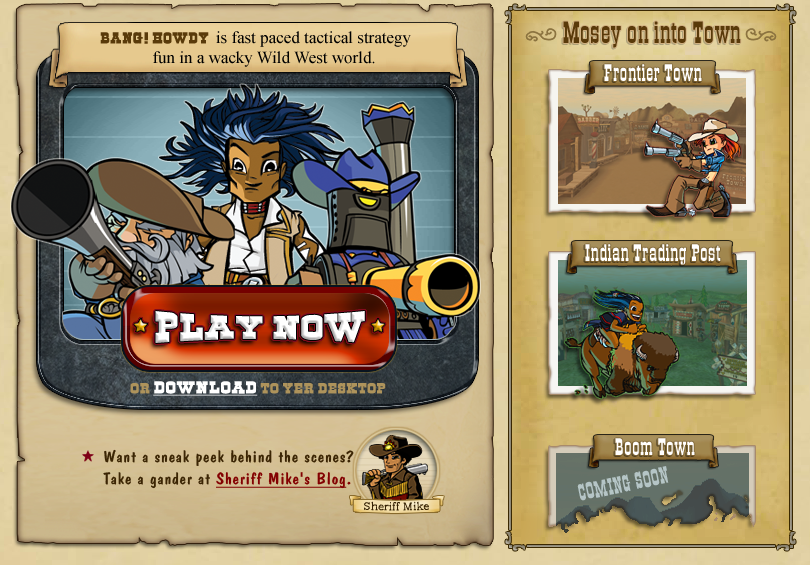
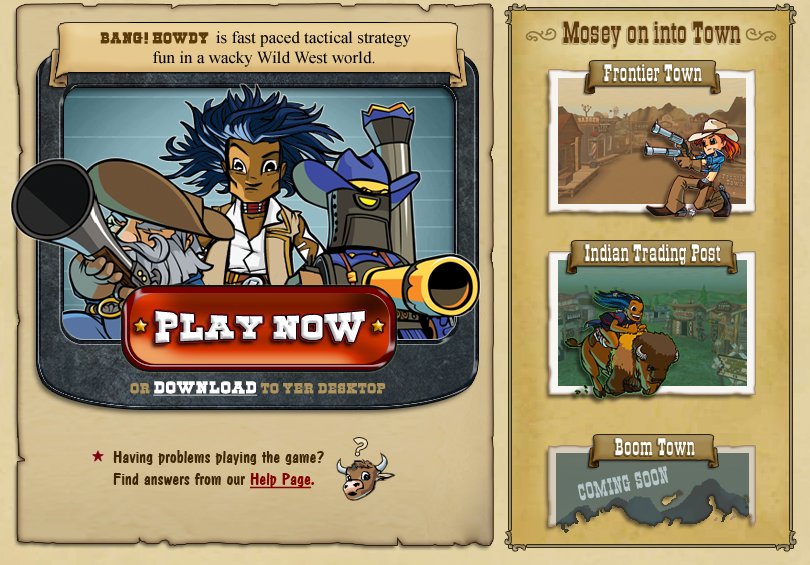
Update the bang webpage and replace the links to the blog with links to the support page.  Since the blog is never updated, and we have no links to the support page anywhere else on the site.

Changed region(s): [[0.0926, 0.7522, 0.5556, 0.9327]]

diff --git a/pages/style.css b/pages/style.css
@@ -93,8 +93,8 @@ li {
     overflow: hidden;
   }
 
-#linkbang a i { 
-    visibility: hidden; 
+#linkbang a i {
+    visibility: hidden;
 }
 
 #linkplay a {
@@ -109,12 +109,12 @@ li {
     overflow: hidden;
   }
 
-#linkplay a i { 
-    visibility: hidden; 
+#linkplay a i {
+    visibility: hidden;
 }
 
-a#btnplay:hover { 
-    background-image: url("/images/header/play.png"); 
+a#btnplay:hover {
+    background-image: url("/images/header/play.png");
     border: none;
 }
 
@@ -130,12 +130,12 @@ a#btnplay:hover {
     overflow: hidden;
   }
 
-#linkscreen a i { 
-    visibility: hidden; 
+#linkscreen a i {
+    visibility: hidden;
 }
 
-a#btnscreen:hover { 
-    background-image: url("/images/header/screen.png"); 
+a#btnscreen:hover {
+    background-image: url("/images/header/screen.png");
     border: none;
 }
 
@@ -151,12 +151,12 @@ a#btnscreen:hover {
     overflow: hidden;
   }
 
-#linkforum a i { 
-    visibility: hidden; 
+#linkforum a i {
+    visibility: hidden;
 }
 
-a#btnforum:hover { 
-    background-image: url("/images/header/forum.png"); 
+a#btnforum:hover {
+    background-image: url("/images/header/forum.png");
     border: none;
 }
 
@@ -172,16 +172,16 @@ a#btnforum:hover {
     overflow: hidden;
   }
 
-#linkaccount a i { 
-    visibility: hidden; 
+#linkaccount a i {
+    visibility: hidden;
 }
 
-a#btnaccount:hover { 
-    background-image: url("/images/header/account.png"); 
+a#btnaccount:hover {
+    background-image: url("/images/header/account.png");
     border: none;
 }
 
-#linknews a {
+#linksupport a {
     position: absolute;
     width: 39px;
     height: 16px;
@@ -193,12 +193,12 @@ a#btnaccount:hover {
     overflow: hidden;
   }
 
-#linknews a i { 
-    visibility: hidden; 
+#linksupport a i {
+    visibility: hidden;
 }
 
-a#btnnews:hover { 
-    background-image: url("/images/header/news.png"); 
+a#btnsupport:hover {
+    background-image: url("/images/header/help.png");
     border: none;
 }
 
@@ -214,8 +214,8 @@ a#btnnews:hover {
     overflow: hidden;
   }
 
-#linkthreerings a i { 
-    visibility: hidden; 
+#linkthreerings a i {
+    visibility: hidden;
 }
 
 /* -------------------------------------------------
@@ -258,8 +258,8 @@ a#btnnews:hover {
     overflow: hidden;
   }
 
-#linklogo a i { 
-    visibility: hidden; 
+#linklogo a i {
+    visibility: hidden;
 }
 
 #Footer {
@@ -273,7 +273,7 @@ a#btnnews:hover {
 
 
 /* -------------------------------------------------
-   For register/register.wm 
+   For register/register.wm
 ------------------------------------------------- */
 h3 {
    margin-bottom: 0px

diff --git a/pages/css/index.css b/pages/css/index.css
@@ -26,15 +26,15 @@
   	padding: 0px;
   	text-decoration: none;
   	overflow: hidden;
-  	
+
   }
 
-#linkplayB a i { 
-	visibility: hidden; 
+#linkplayB a i {
+	visibility: hidden;
 }
 
-a#btnplayB:hover { 
-	background-image: url("/images/index/playnow.png"); 
+a#btnplayB:hover {
+	background-image: url("/images/index/playnow.png");
 	border: none;
 }
 
@@ -50,34 +50,34 @@ a#btnplayB:hover {
   	overflow: hidden;
   }
 
-#linkdl a i { 
-	visibility: hidden; 
+#linkdl a i {
+	visibility: hidden;
 }
 
-a#btndl:hover { 
-	background-image: url("/images/index/download.png"); 
+a#btndl:hover {
+	background-image: url("/images/index/download.png");
 	border: none;
 }
 
-#linkblog a {
+#linkhelp a {
   	position: absolute;
- 	width: 131px;
+ 	width: 69px;
   	height: 24px;
-  	top: 469px;
-  	left: 214px;
+  	top: 468px;
+  	left: 247px;
   	margin: 0px;
   	padding: 0px;
-  	text-decoration: none; 
+  	text-decoration: none;
   	overflow: hidden;
-  	
+
   }
 
-#linkblog a i { 
-	visibility: hidden; 
+#linkhelp a i {
+	visibility: hidden;
 }
 
-a#btnblog:hover { 
-	background-image: url("/images/index/blog.png"); 
+a#btnhelp:hover {
+	background-image: url("/images/index/help.png");
 	border: none;
 }
 
@@ -93,12 +93,12 @@ a#btnblog:hover {
   	overflow: hidden;
   }
 
-#linkfrontier a i { 
-	visibility: hidden; 
+#linkfrontier a i {
+	visibility: hidden;
 }
 
-a#btnfrontier:hover { 
-	background-image: url("/images/index/frontier.png"); 
+a#btnfrontier:hover {
+	background-image: url("/images/index/frontier.png");
 	border: none;
 }
 
@@ -114,11 +114,11 @@ a#btnfrontier:hover {
   	overflow: hidden;
   }
 
-#linkitp a i { 
-	visibility: hidden; 
+#linkitp a i {
+	visibility: hidden;
 }
 
-a#btnitp:hover { 
-	background-image: url("/images/index/itp.png"); 
+a#btnitp:hover {
+	background-image: url("/images/index/itp.png");
 	border: none;
 }

diff --git a/pages/incl/header_incl.html b/pages/incl/header_incl.html
@@ -11,22 +11,22 @@
          <div id="linkscreen"><a href="/screenshots/" id="btnscreen">
             <i>Screenshots</i></a>
          </div>
-         <div id="linkforum"><a href="http://forums.banghowdy.com/townhall/" 
+         <div id="linkforum"><a href="http://forums.banghowdy.com/townhall/"
              id="btnforum">
             <i>Forums</i></a>
          </div>
          <div id="linkaccount"><a href="/register/" id="btnaccount">
             <i>Download</i></a>
          </div>
-         <div id="linknews"><a href="/news/" id="btnnews">
-            <i>Blog</i></a>
+         <div id="linksupport"><a href="/support/" id="btnsupport">
+            <i>Support</i></a>
          </div>
-         <div id="linkthreerings"><a href="http://www.threerings.net" 
+         <div id="linkthreerings"><a href="http://www.threerings.net"
              id="btnthreerings" onclick="this.target='_blank';">
             <i>Three Rings</i></a>
          </div>
     </div>
- 
+
     <div id="Content">
- 
+
 

diff --git a/pages/index.html b/pages/index.html
@@ -12,8 +12,8 @@
     <div id="linkdl"><a href="/download.html" id="btndl">
             <i>Download</i></a>
     </div>
-    <div id="linkblog"><a href="/news/" id="btnblog">
-            <i>Sheriff Mikes Blog</i></a>
+    <div id="linkhelp"><a href="/support/" id="btnhelp">
+            <i>Help Page</i></a>
     </div>
     <div id="linkfrontier"><a href="/town/frontier.html" id="btnfrontier">
             <i>Frontier Town</i></a>

diff --git a/pages/header_incl.html b/pages/header_incl.html
@@ -8,7 +8,7 @@
           href="http://forums.banghowdy.com/townhall/" alt="Forums" />
     <area shape="rect" coords="470,135,550,155" href="/download.html"
           alt="Download!" />
-    <area shape="rect" coords="600,135,642,155" href="/news/" alt="Blog" />
+    <area shape="rect" coords="600,135,642,155" href="/support/" alt="Support" />
   </map>
   <div align="center">
   <table>
